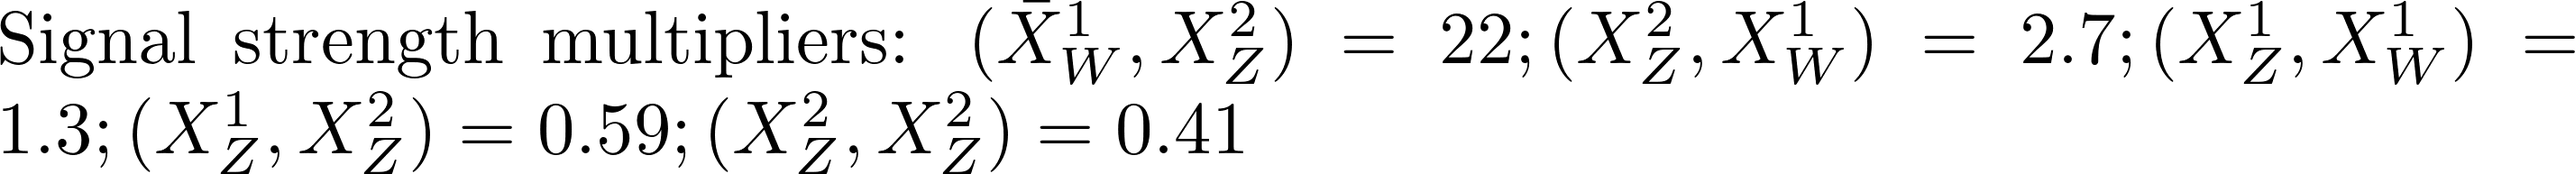
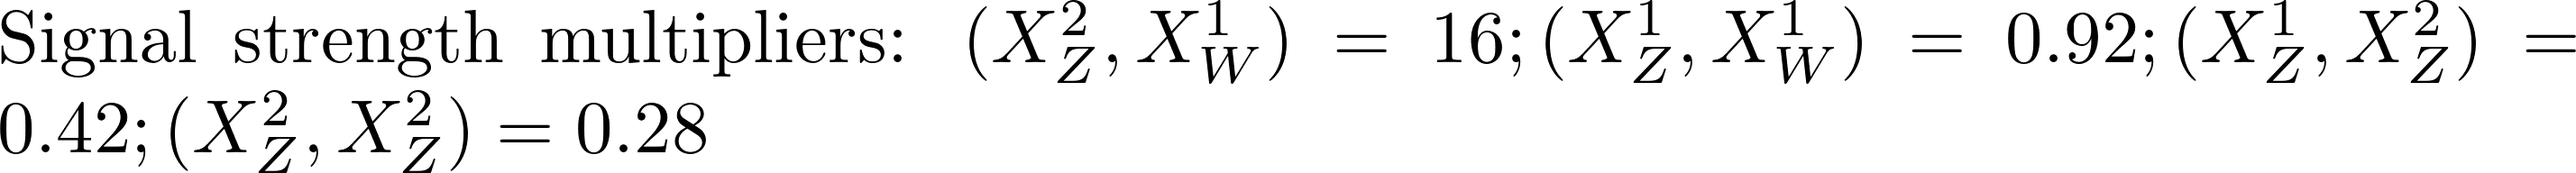
automated update by plotHiscore.py to ewk1_310:     K=18.713 TL=25.91 walkerid=0

Changed region(s): [[0.0, 0.0, 1.0, 0.5], [0.0, 0.5312, 0.4986, 1.0], [0.0, 0.0625, 0.0312, 0.125]]

diff --git a/protomodels/ewk1_310/index.html b/protomodels/ewk1_310/index.html
@@ -1,22 +1,22 @@
 <html>
 <body>
 <center>
-<table><td><h1>Current best protomodel: <i>K</i>=18.78, <i>TL</i>=28.42</h1><td><img height=60px src=https://smodels.github.io//protomodels/logos/protomodel_lego.png></table>
+<table><td><h1>Current best protomodel: <i>K</i>=18.71, <i>TL</i>=25.91</h1><td><img height=60px src=https://smodels.github.io//protomodels/logos/protomodel_lego.png></table>
 </center>
-<b><a href=./hiscore.slha>ProtoModel</a> <a href=./pmodel.dict>(dict)</a> produced with <a href=https://smodels.github.io//docs/Validation310>database v3.1.0</a>, combination strategy <a href=./matrix.png>aggressive</a> in walker 0 step 0.</b> <br>
+<b><a href=./hiscore.slha>ProtoModel</a> <a href=./pmodel.dict>(dict)</a> produced with <a href=https://smodels.github.io//docs/Validation310>database v3.1.0</a>, combination strategy <a href=./matrix.png>aggressive</a> in walker 0 step 7.</b> <br>
 <table width=80%>
 <tr><td>
 <br><b>5 predictions available. Highest r values are:</b><br><ul>
-<li><a href=https://atlas.web.cern.ch/Atlas/GROUPS/PHYSICS/PAPERS/EXOT-2018-06/>ATLAS-EXOT-2018-06</a>:EM8:TChiISR,TChiZISRqq,TChiZISRll,TChiWISRll r=1.46, r<sub>exp</sub>=1.58<br>
-<li><a href=http://cms-results.web.cern.ch/cms-results/public-results/publications/SUS-16-048/index.html>CMS-SUS-16-048</a>:Ewkino_highMET_M_10to20:TChiWZoff r=0.69, r<sub>exp</sub>=0.58<br>
-<li><a href=https://atlas.web.cern.ch/Atlas/GROUPS/PHYSICS/PAPERS/SUSY-2018-16/>ATLAS-SUSY-2018-16-hino</a>:SR_ewk_2l_high:TChiZoff r=0.62, r<sub>exp</sub>=0.59<br>
-<li><a href=https://atlas.web.cern.ch/Atlas/GROUPS/PHYSICS/PAPERS/SUSY-2018-16/>ATLAS-SUSY-2018-16</a>:CR_ewk_top_low:TChiWZoff r=0.33, r<sub>exp</sub>=0.33<br>
+<li><a href=https://atlas.web.cern.ch/Atlas/GROUPS/PHYSICS/PAPERS/EXOT-2018-06/>ATLAS-EXOT-2018-06</a>:EM8:TChiWISRll,TChiZISRll,TChiISR,TChiZISRqq r=1.06, r<sub>exp</sub>=1.15<br>
+<li><a href=http://cms-results.web.cern.ch/cms-results/public-results/publications/SUS-16-048/index.html>CMS-SUS-16-048</a>:Ewkino_highMET_M_10to20:TChiWZoff r=0.65, r<sub>exp</sub>=0.55<br>
+<li><a href=https://atlas.web.cern.ch/Atlas/GROUPS/PHYSICS/PAPERS/SUSY-2018-16/>ATLAS-SUSY-2018-16-hino</a>:SR_ewk_2l_high:TChiZoff r=0.40, r<sub>exp</sub>=0.38<br>
+<li><a href=http://cms-results.web.cern.ch/cms-results/public-results/publications/EXO-20-004/>CMS-EXO-20-004</a>:SR_2017_2:TChiWISRll,TChiZISRll,TChiISR,TChiZISRqq r=0.38, r<sub>exp</sub>=0.38<br>
 </ul>
-<td><img width=600px src=./texdoc.png?1755247503>
-<br><span style='font-size: smaller; color: darkred;'>Last updated: Fri Aug 15 10:45:03 2025</span>
+<td><img width=600px src=./texdoc.png?1755253233>
+<br><span style='font-size: smaller; color: darkred;'>Last updated: Fri Aug 15 12:20:33 2025</span>
 </table><table style="width:80%">
-<td width=45%><img height=580px src=./ruler.png?1755247503><td width=55%><img height=220px src=./decays.png?1755247503>
-<font size=-3><iframe type="text/html" height="350px" width="100%" frameborder="0" src="./rawnumbers.html?1755247503"></iframe></font>
+<td width=45%><img height=580px src=./ruler.png?1755253233><td width=55%><img height=220px src=./decays.png?1755253233>
+<font size=-3><iframe type="text/html" height="350px" width="100%" frameborder="0" src="./rawnumbers.html?1755253233"></iframe></font>
 </table>
 </body>
 </html>

diff --git a/protomodels/ewk1_310/rawnumbers.html b/protomodels/ewk1_310/rawnumbers.html
@@ -1,7 +1,7 @@
 <table>
 <tr><th>Analysis Name</th><th>Type</th><th>Dataset</th><th>Topos</th><th>Observed</th><th>Expected</th><th>Approx &sigma;</th><th>Particles</th>
 </tr>
-<tr><td><a href=http://cms-results.web.cern.ch/cms-results/public-results/publications/EXO-20-004/>CMS-EXO-20-004</a></td><td>comb</td> <td>-</td><td>TChiISR, TChiWISRll, TChiZISRll, TChiZISRqq</td><td> 2e+02 fb </td><td> 1e+02 fb</td><td style="text-align:right">4.6 &sigma;</td><td style="text-align:right">X<sup>1</sup><sub>W</sub>, X<sup>1</sup><sub>Z</sub>, X<sup>2</sup><sub>Z</sub></td></tr>
+<tr><td><a href=http://cms-results.web.cern.ch/cms-results/public-results/publications/EXO-20-004/>CMS-EXO-20-004</a></td><td>comb</td> <td>-</td><td>TChiISR, TChiWISRll, TChiZISRll, TChiZISRqq</td><td> 2e+02 fb </td><td> 1e+02 fb</td><td style="text-align:right">4.4 &sigma;</td><td style="text-align:right">X<sup>1</sup><sub>W</sub>, X<sup>1</sup><sub>Z</sub>, X<sup>2</sup><sub>Z</sub></td></tr>
 <tr><td><a href=https://atlas.web.cern.ch/Atlas/GROUPS/PHYSICS/PAPERS/SUSY-2018-16/>ATLAS-SUSY-2018-16-hino</a></td><td>em</td> <td>SR_ewk_2l_med</td><td>TChiZoff</td><td>170</td><td>112.40 +/- 12.60</td><td style="text-align:right">3.3 &sigma;</td><td style="text-align:right">X<sup>1</sup><sub>Z</sub>, X<sup>2</sup><sub>Z</sub></td></tr>
 <tr><td><a href=https://atlas.web.cern.ch/Atlas/GROUPS/PHYSICS/PAPERS/EXOT-2018-06/>ATLAS-EXOT-2018-06</a></td><td>em</td> <td>EM10</td><td>TChiISR, TChiWISRll, TChiZISRll, TChiZISRqq</td><td>413</td><td>359.00 +/- 10.00</td><td style="text-align:right">2.5 &sigma;</td><td style="text-align:right">X<sup>1</sup><sub>W</sub>, X<sup>1</sup><sub>Z</sub>, X<sup>2</sup><sub>Z</sub></td></tr>
 </table>
